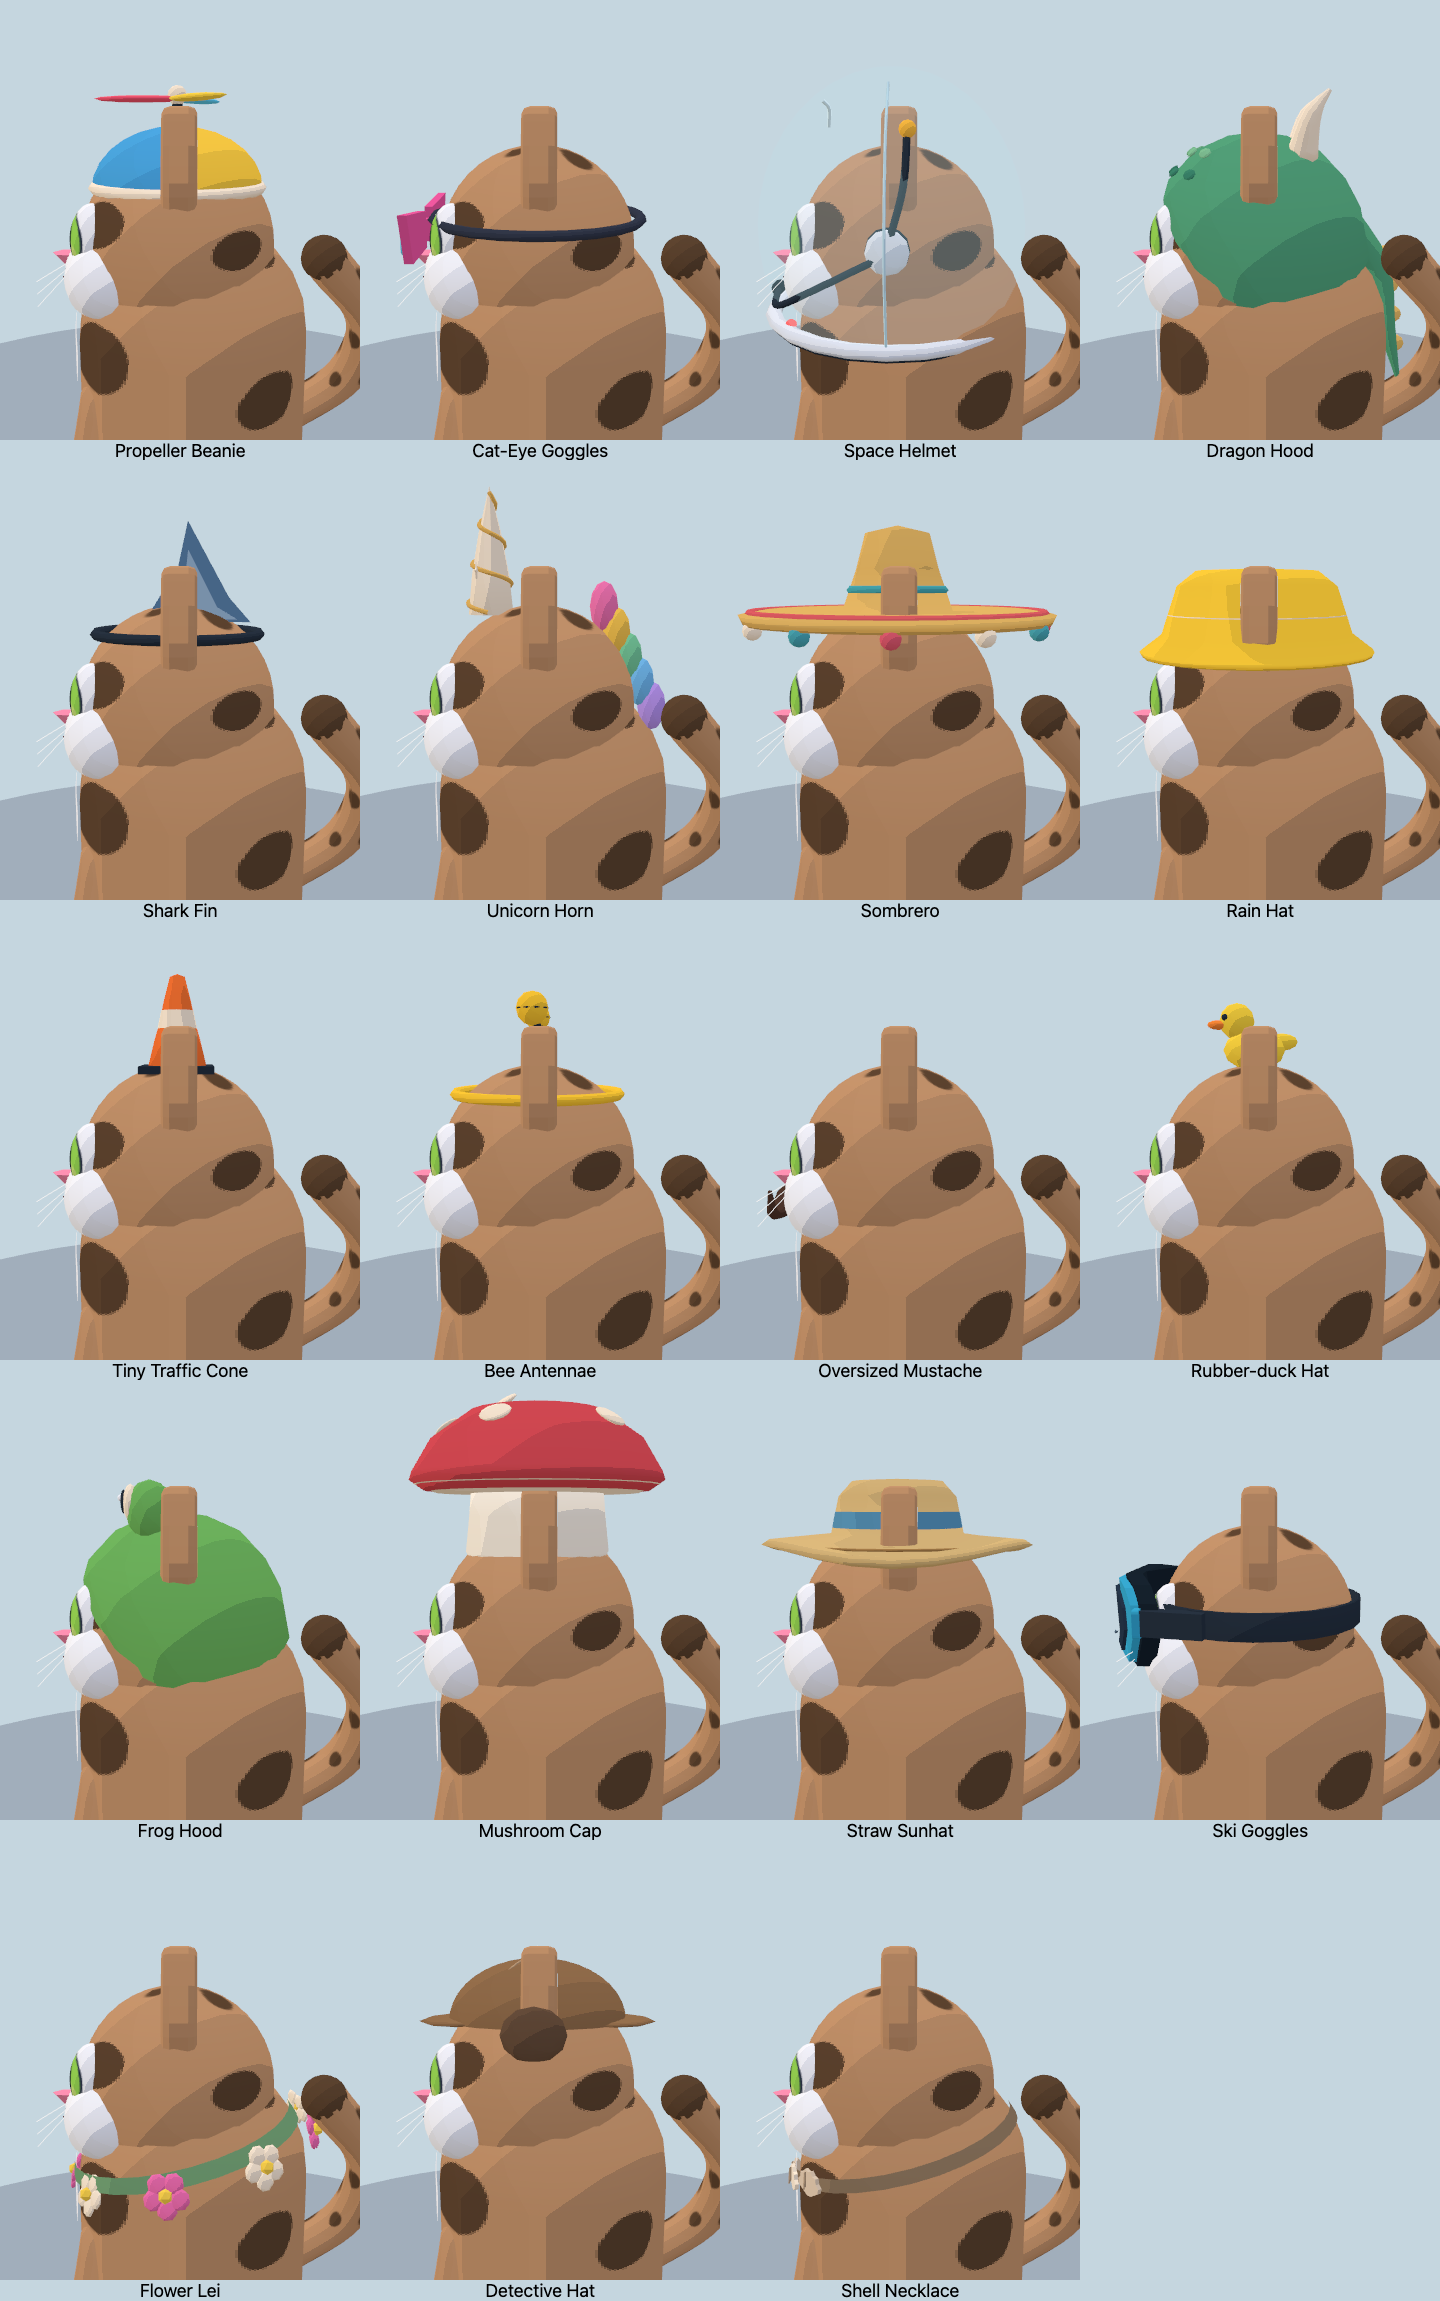
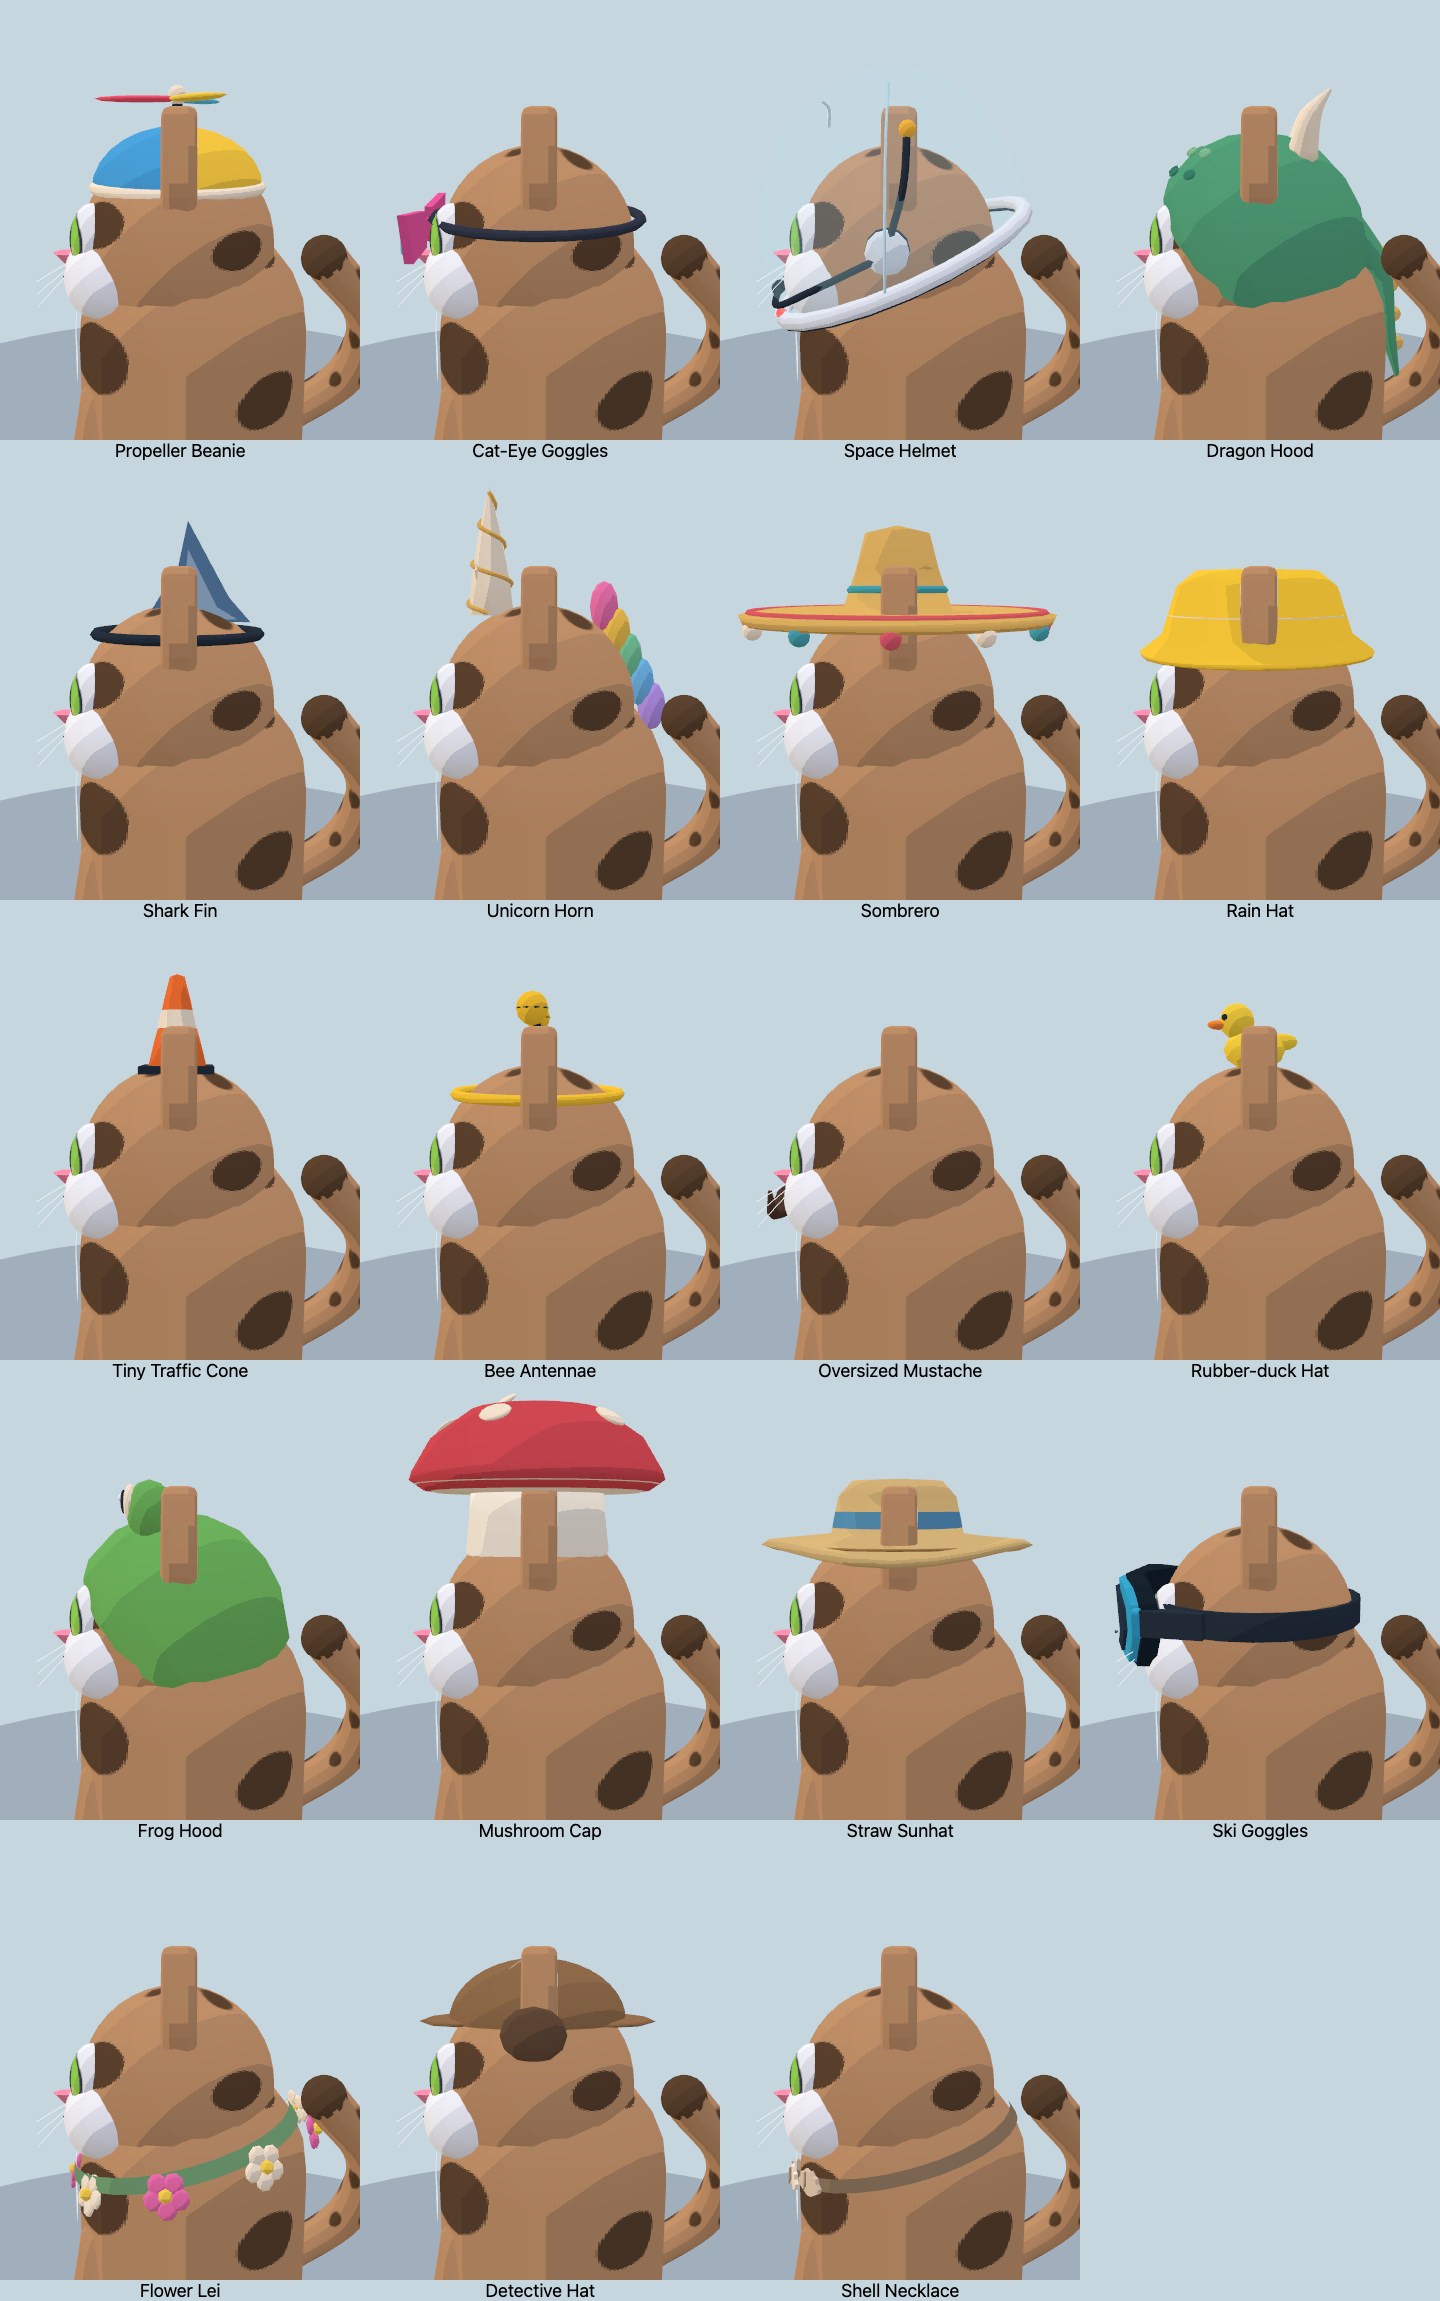
Fit the space helmet rim and dome to the angled neckline

Changed region(s): [[0.5312, 0.0617, 0.7188, 0.1851]]

diff --git a/src/cat-accessories.js b/src/cat-accessories.js
@@ -136,8 +136,20 @@ export function createExtraAccessory(id, color, helpers) {
     }
     case 'space': {
       covered=true;
-      const rim=ring(.918,.06,color,0,-.497,.04);rim.scale.z=1/1.08;
-      const seal=ring(.918,.023,dark,0,-.545,.04);seal.scale.z=1/1.08;
+      // Cut the ellipsoid on the neckline: lower under the chin, higher at
+      // the nape. The rim and dome share the exact boundary, so no gap opens.
+      // y = -.13 - .44 * (z - .04), about 24 degrees from horizontal.
+      const domePoint=(u,v,out=new THREE.Vector3())=>{
+        const a=u*TAU,b=.44*Math.sin(a),r=Math.hypot(1.2,b);
+        const edge=Math.atan2(b,1.2)+Math.acos(-.26/r),p=v*edge;
+        return out.set(-1.02*Math.cos(a)*Math.sin(p),.13+1.2*Math.cos(p),.04+Math.sin(a)*Math.sin(p));
+      };
+      class Neckline extends THREE.Curve {
+        getPoint(t,out=new THREE.Vector3()){return domePoint(t,1,out);}
+      }
+      const neckline=new Neckline();
+      add(new THREE.TubeGeometry(neckline,24,.06,5,true),color);
+      add(new THREE.TubeGeometry(neckline,24,.023,5,true),dark,0,-.045,0);
       for(const sx of [-1,1]){
         ball(.15,dark,sx*.81,.13,.035,[.45,1,1]);
         ball(.145,color,sx*.865,.13,.035,[.4,1,1]);
@@ -149,13 +161,20 @@ export function createExtraAccessory(id, color, helpers) {
       ball(.08,0x17232d,.19,-.30,.89,[1.35,.65,.65]);
       // A closer-fitting ellipsoid still clears the anchored ears and muzzle.
       // One front surface, with no transmission/refraction or extra light.
-      const g=new THREE.SphereGeometry(1,24,14,0,TAU,0,2.12);g.scale(1.08,1.2,1);g.translate(0,.13,.04);g.userData.shared=true;
+      const g=new THREE.SphereGeometry(1,24,14,0,TAU,0,2.12),p=g.attributes.position,sample=new THREE.Vector3();
+      for(let i=0;i<p.count;i++){
+        domePoint((i%25)/24,Math.floor(i/25)/14,sample);
+        p.setXYZ(i,sample.x,sample.y,sample.z);
+      }
+      g.computeVertexNormals();g.userData.shared=true;
       const domeKey='extra|space|dome';if(!cache.has(domeKey))cacheGeometry(domeKey,g);else g.dispose();
       dome=new THREE.Mesh(cache.get(domeKey),glass);dome.renderOrder=2;group.add(dome);
       line([[-.53,.90,.60],[-.37,1.04,.57],[-.17,1.10,.59]],.016,0xe5fbff);
-      line([[.922,-.49,.04],[1.08,.13,.04],[.891,.81,.04],[.53,1.175,.04]],.01,0xc4e3eb);
+      line([[.996,-.13,.04],[1.02,.13,.04],[.841,.81,.04],[.50,1.175,.04]],.01,0xc4e3eb);
       pivot('blink',0,0,0);
-      for(const sx of [-1,1])ball(.04,sx<0?0x7effa9:0xff6d6d,sx*.55,-.46,.72);
+      for(const [u,c] of [[1/6,0x7effa9],[1/3,0xff6d6d]]){
+        const p=domePoint(u,1);ball(.04,c,p.x,p.y+.045,p.z+.018);
+      }
       break;
     }
     case 'dragon': {

diff --git a/docs/art-refresh/new-accessories/README.md b/docs/art-refresh/new-accessories/README.md
@@ -28,6 +28,14 @@ All 19 requested accessories are available in the Custom Cat studio and asset vi
 | Detective Hat | Deerstalker crown, front/rear peaks, side flaps and broad stitching. |
 | Shell Necklace | Five large scalloped shells with readable ribs on a fitted cord. |
 
+## Angled helmet neckline
+
+The helmet opening follows the marked neckline at roughly 24 degrees: low under the chin and high at the nape. Both the lower dome edge and collar come from the same tilted intersection with the ellipsoid. The dome is also about 6% narrower; the headset and single mic stay aligned with the face. The blinking status lamps follow the new rim.
+
+[Neckline before/after, side and front](neckline-comparison.png)
+
+This is generation-time shaping only. The complete spotted helmet cat still has **9,816 triangles and 21 batches**, including the same single transparent dome; animation, materials and lights are unchanged. The 82 WebGL/WebGPU selection renders, 738 pose/color checks and web build pass. Reviewed front, side, rear and driving views. No new FPS benchmark was run for this geometry-only reshaping; earlier measurements below remain labeled for the builds tested.
+
 ## Fit refinements
 
 The dragon tail now starts inside the rear of the hood above its hem, so the broad root stays attached as it flutters. The mushroom cap sits on a short white stem with fitted ear openings. The space dome is about 14% narrower and shallower, retaining ear/muzzle clearance, with closer earcups and **one** boom microphone beside the mouth. Ski goggles now use a single curved shield with a nose cutout, a deep foam seal and a broad elastic strap.
